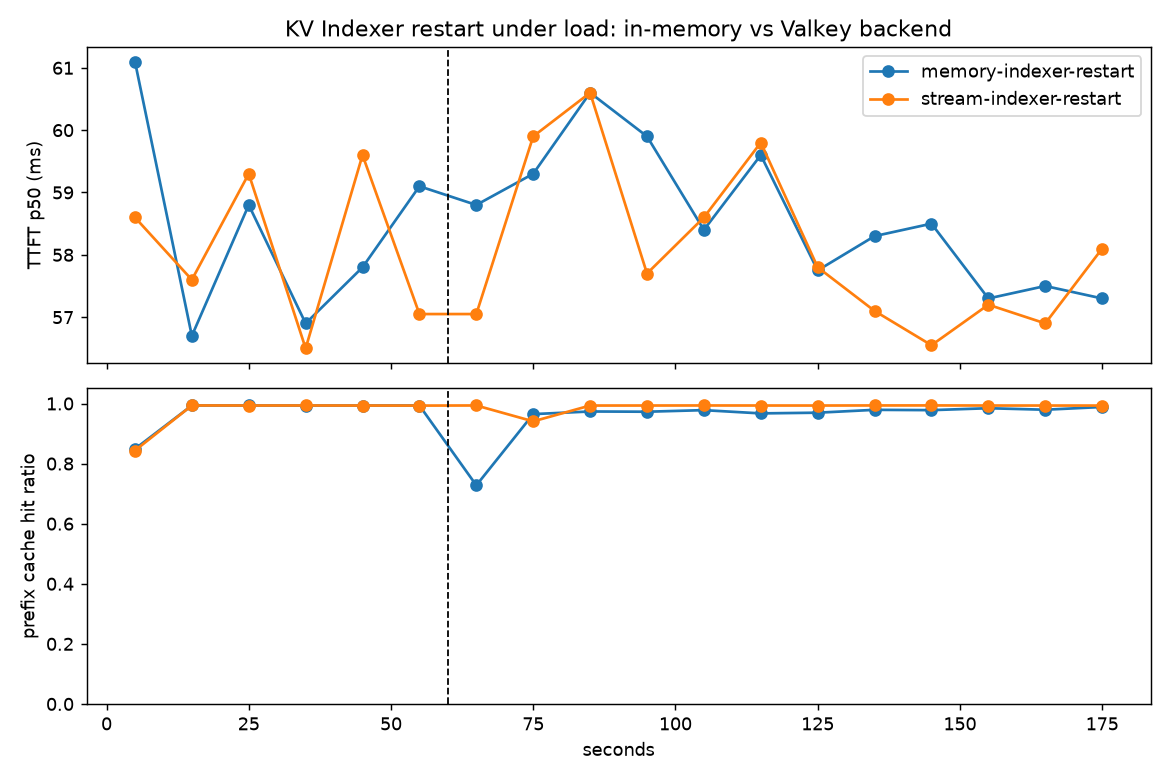
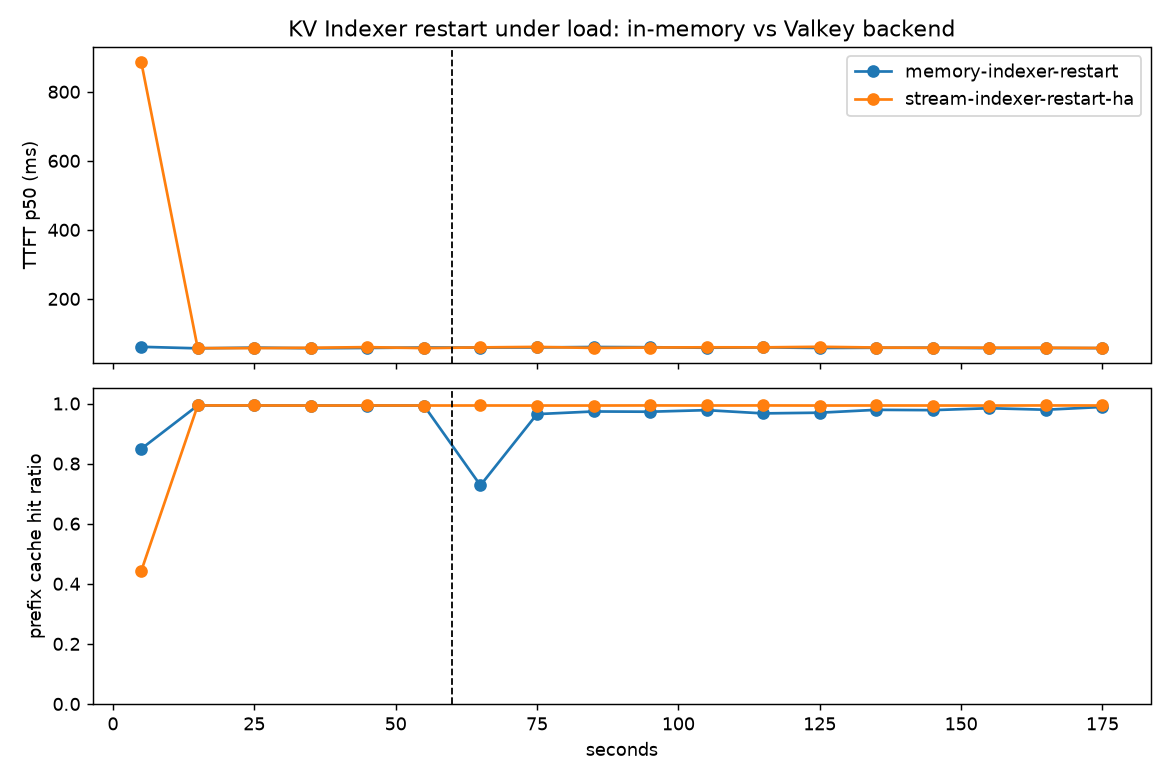
Demo: rolling restart of the whole indexer fleet, with router failover
router.sh now takes every indexer port and passes the list to
--kv-indexer-endpoint; scenario2.sh gains indexer-restart-ha, which does the
same rolling restart as indexer-restart but with the router able to fail over.

Measured: restarting both indexers one after the other moves no window at all
(0.99 hit ratio, p90 never above 73 ms, 12 blind decisions of 2052, the same as
steady state), against a single-endpoint Valkey run that dips one window to 0.77
and a single-endpoint in-memory run that loses more than half its index and
routes 17 percent of requests blind.

diff --git a/README.md b/README.md
@@ -84,19 +84,31 @@ the router's `no_cache_candidate` count for the whole run; "index after" is how
 many placements the router's indexer could still answer for this workload's
 block set, probed live at that moment.
 
-### 1. Restarting the indexer the router points at
+### 1. Restarting the indexer, and a rolling restart of the whole fleet
 
-| mode | index before | index 3 s after | blind decisions | worst window |
+| setup | index before | index after | blind decisions | worst window |
 | --- | --- | --- | --- | --- |
-| memory | 968 | **419** | **337** of 1,958 | 0.73 hit ratio, p90 980 ms |
-| stream (Valkey) | 968 | **1,210** (still growing) | **12** of 2,135 | 0.77 hit ratio, p90 1,053 ms |
+| memory, one endpoint | 968 | **419** | **337** of 1,958 (17%) | 0.73 hit ratio, p90 980 ms |
+| Valkey, one endpoint | 968 | **1,210** (still growing) | 12 of 2,135 | 0.77 hit ratio, p90 1,053 ms |
+| Valkey, both endpoints | 968 | **968** | 12 of 2,052 | **none: 0.99 and p90 73 ms throughout** |
 
-The in-memory index comes back empty and relearns only as blocks churn. The
-Valkey-backed one never lost anything. Both blink for the second the socket is
-down, because `sgl-router` takes a single `--kv-indexer-endpoint`: state
-durability cannot help while the endpoint the router holds is unreachable. That
-is a router limitation worth fixing separately (multiple endpoints with
-failover); with the current router, indexer HA means a stable address in front.
+The in-memory index comes back empty and relearns only as blocks churn; the
+Valkey-backed one never loses anything. But durable state alone still leaves one
+window degraded, because a router holding a single `--kv-indexer-endpoint` has
+nowhere to ask while that socket is down.
+
+Giving the router every endpoint of the shared-state fleet closes it. The third
+row is a rolling restart of *both* indexers, one after the other, and no window
+moves at all; the router logs the two failovers and nothing else changes:
+
+```
+KV Indexer failover: queries now prefer another endpoint from=http://127.0.0.1:50051 to=http://127.0.0.1:50052
+KV Indexer failover: queries now prefer another endpoint from=http://127.0.0.1:50052 to=http://127.0.0.1:50051
+```
+
+That needed a router change (`--kv-indexer-endpoint` now takes a list, preferred
+first, failing over only while the current endpoint cannot answer), which is the
+third commit of the stage-B branch.
 
 ### 2. Rotating the indexer fleet behind a stable address
 
@@ -168,8 +180,9 @@ snapshot, the stream is the window.
 ```
 
 Individual runs: `DURATION=180 EVENT_AT=60 ./scenario2.sh stream worker-restart`.
-Events: `indexer-restart`, `indexer-kill-add`, `bridge-outage`,
-`bridge-outage-churn`, `worker-restart`.
+Events: `indexer-restart` (router on one endpoint), `indexer-restart-ha` (router
+on every endpoint), `indexer-kill-add`, `bridge-outage`, `bridge-outage-churn`,
+`worker-restart`.
 
 ## Notes for anyone repeating this
 
